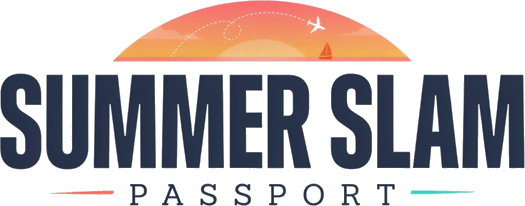
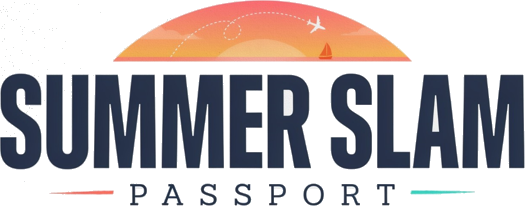
Sharpen Summer Slam passport header rendering.
Re-export the header from the original source with a cleaner transparency key, cap display size to native resolution, and bump the asset version to avoid upscaling blur.

diff --git a/src/pages/summer-slam/_components/passport-assets.ts b/src/pages/summer-slam/_components/passport-assets.ts
@@ -2,7 +2,7 @@
  * Shared Summer Slam artwork — used by landing, live passport, and demo passport.
  * Bump ASSET_VERSION whenever files in /public/summer-slam change.
  */
-export const ASSET_VERSION = "2026-06-20-stamps-v3";
+export const ASSET_VERSION = "2026-06-20-header-sharp";
 
 export function summerSlamAsset(path: string): string {
   return `${path}?v=${ASSET_VERSION}`;

diff --git a/src/pages/summer-slam/_components/passport-hero.tsx b/src/pages/summer-slam/_components/passport-hero.tsx
@@ -35,7 +35,7 @@ export function PassportHero({
             alt={title}
             width={PASSPORT_HEADER.width}
             height={PASSPORT_HEADER.height}
-            className="h-40 w-auto max-w-full sm:h-52 lg:h-64"
+            className="h-32 w-auto max-w-full sm:h-40 lg:max-h-[12.875rem] lg:h-auto"
           />
         </div>
 

diff --git a/src/pages/summer-slam/page.tsx b/src/pages/summer-slam/page.tsx
@@ -57,7 +57,7 @@ export default function SummerSlamLandingPage() {
             alt={campaign?.title ?? "Summer Slam Passport"}
             width={PASSPORT_HEADER.width}
             height={PASSPORT_HEADER.height}
-            className="h-44 w-auto max-w-full sm:h-56 lg:h-72"
+            className="h-32 w-auto max-w-full sm:h-40 lg:max-h-[12.875rem] lg:h-auto"
           />
         </div>
 